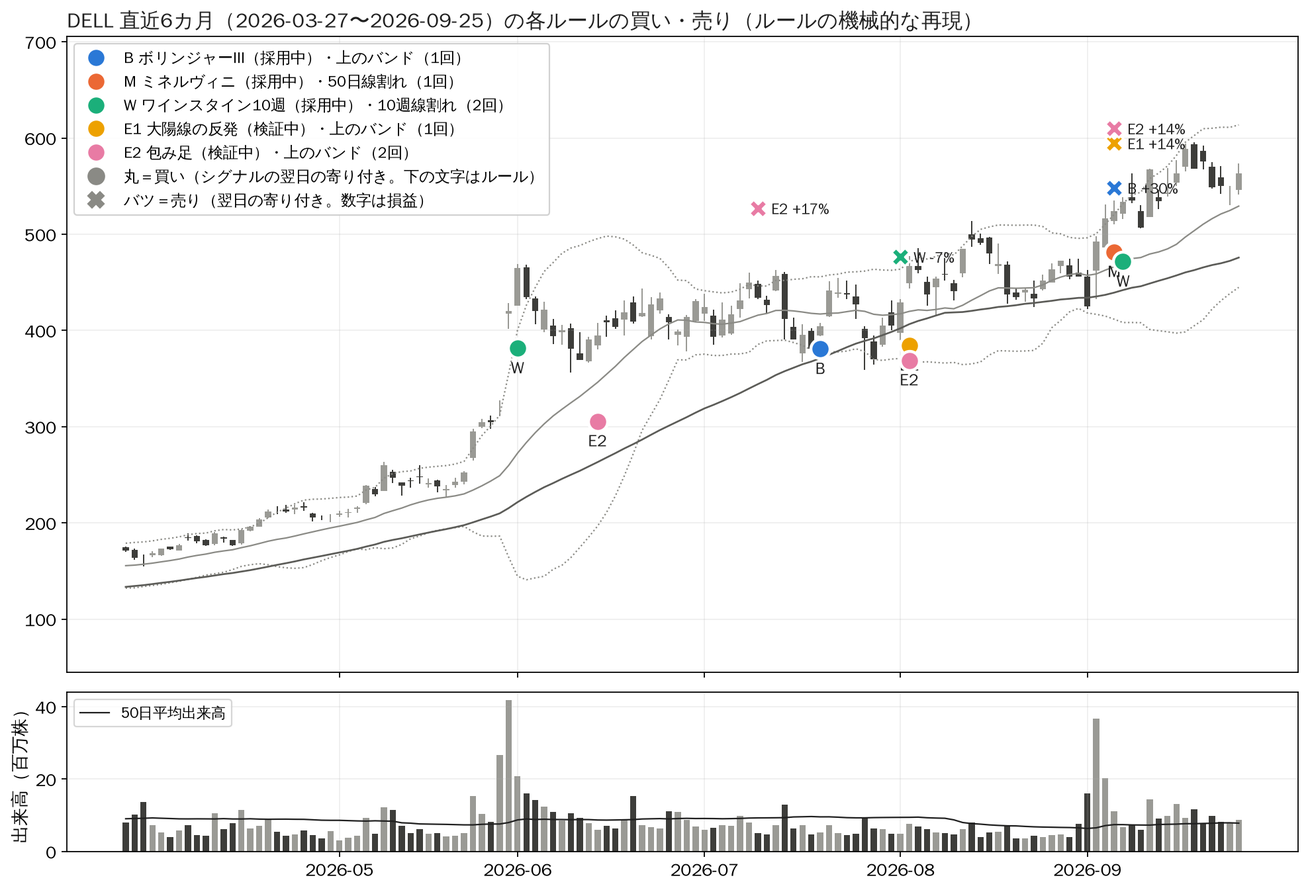
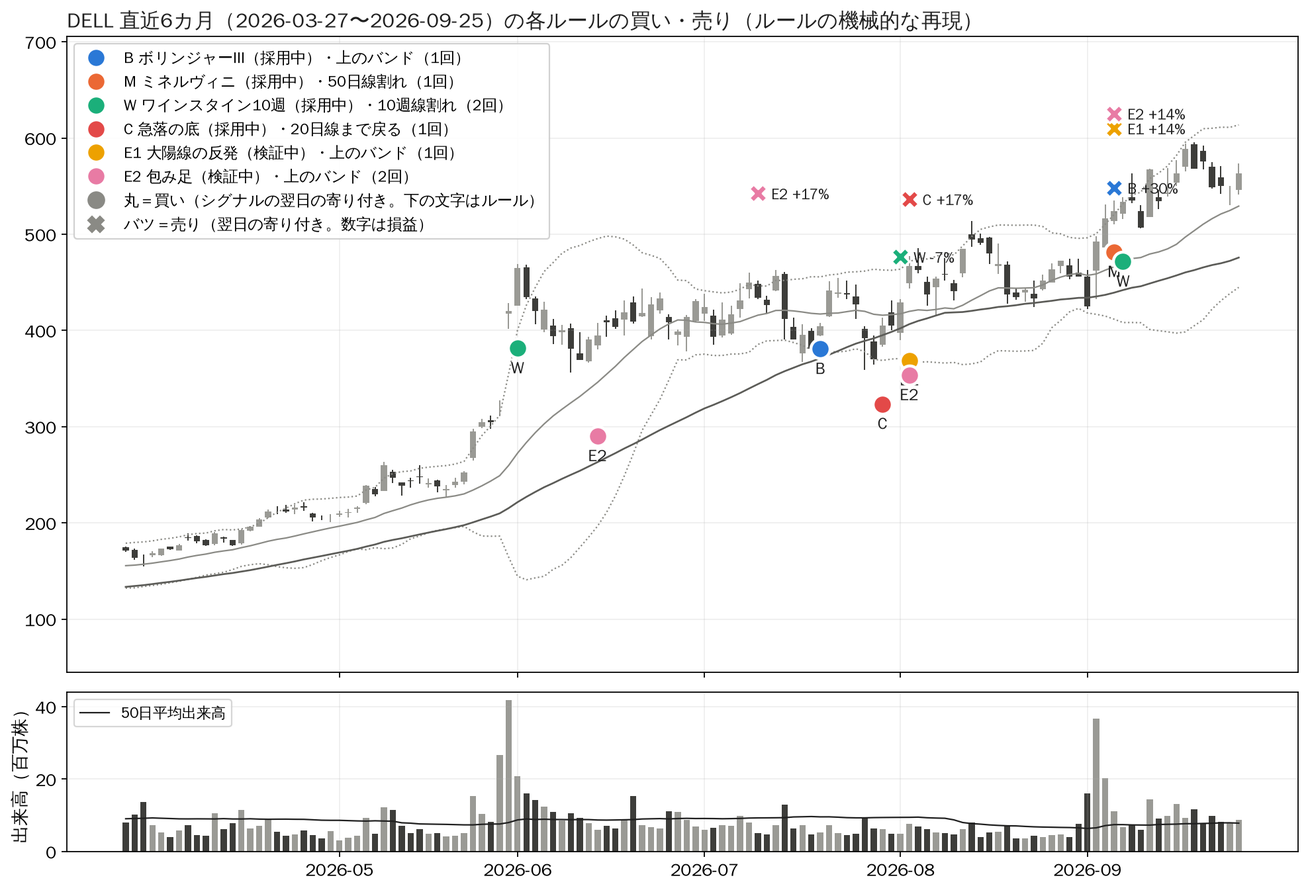
急落の底で買う逆張りのルールを採用し、毎朝のスキャン・個別分析・レビューに追加。質問には先に回答して確認するルールをCLAUDE.mdに追加
Claude-Session: https://claude.ai/code/session_01HNPPwbbnF8ioUCDAjfcbNF

diff --git a/tools/theme_scan.py b/tools/theme_scan.py
@@ -30,10 +30,12 @@ import backtest_theme as bth
 import backtest_trend as bt
 from backtest_regime import up as regime_up
 from backtest_minervini2 import add_pivot
-from backtest_lib import DEFAULT_CACHE, MEMBERS_URL, curl, market_regime, sma
+from backtest_lib import DEFAULT_CACHE, MEMBERS_URL, curl, market_regime, rsi_wilder, sma
+import backtest_crash as bcr
 
 RISK, STOP = 0.02, 0.15
 B_MAX = 5   # パターンB（予約注文の候補）は各ルールでこの件数まで
+CRASH_MAX = 7   # 急落の底の候補（市場全体の急落の日は20件を超えることがある）はRSの高い順にこの件数まで
 UA = "Mozilla/5.0 (Windows NT 10.0; Win64; x64) AppleWebKit/537.36 (KHTML, like Gecko) Chrome/120.0 Safari/537.36"
 
 
@@ -126,11 +128,12 @@ def main():
         p = os.path.join(DEFAULT_CACHE, "members.csv")
         members_csv = open(p).read() if os.path.exists(p) else "ticker,start_date,end_date\n"
     sp = [r["ticker"] for r in csv.DictReader(members_csv.splitlines()) if not r["end_date"]]
-    syms = sorted(set(sp) | set(wl) | {"SPY"})
+    syms = sorted(set(sp) | set(wl) | {"SPY", "^GSPC"})
     with ThreadPoolExecutor(8) as ex:
         got = dict(zip(syms, ex.map(fetch_daily, syms)))
     got = {s: cut(d, a.asof) for s, d in got.items() if d}
     spy = got.pop("SPY")
+    gspc = got.pop("^GSPC", None)
     day = spy["date"][-1]
     data = {s: got[s] for s in wl if s in got and got[s]["date"] and got[s]["date"][-1] == day and len(got[s]["c"]) > 260}
     missing = sorted(set(wl) - set(data))
@@ -143,6 +146,7 @@ def main():
         bt.prepare(d)
         bs.prepare(d)
         add_pivot(d)
+        d["rsi2"] = rsi_wilder(d["c"], 2)
         d["sym"] = s
         if len(pool) > 50:
             d["rs"][-1] = 99 * bisect.bisect_left(pool, rs_raw(d["c"])) / (len(pool) - 1)
@@ -183,6 +187,8 @@ def main():
     br = sum(1 for d in data.values() if d["ma50"][-1] and d["c"][-1] > d["ma50"][-1]) / len(data)
     warn = br < 0.4 and ma50[-1] is not None and c[-1] < ma50[-1]
     w("\n## 2. テーマ全体の状態と早めの警告\n")
+    mkt = market_regime(gspc).get(day, "判定不能") if gspc else "取得不可"
+    w(f"- 市場全体（S&P500指数）の30週線による局面: **{mkt}**（急落の底で買うルールは、過去の検証で下落相場で特に強く、横ばいの相場では負けていた）")
     w(f"- テーマ指数（監視銘柄の等金額平均）の30週線による局面: **{stage.get(day, '判定不可')}**（上昇＝線より上かつ上向き、下落＝線より下かつ下向き、それ以外＝横ばい。ワインスタインのステージの近似）")
     w(f"- テーマ指数と50日線: {'50日線より上' if ma50[-1] and c[-1] > ma50[-1] else '50日線より下'}（乖離 {pct(c[-1] / ma50[-1] - 1) if ma50[-1] else '取得不可'}）")
     w(f"- S&P500に対する相対的な強さ: {'50日平均より上（S&P500より強い）' if rma[-1] and ratio[-1] > rma[-1] else '50日平均より下（S&P500より弱い）'}")
@@ -247,7 +253,9 @@ def main():
                 continue
             i = len(d["c"]) - 1
             c = d["c"][i]
-            if "ボリンジャー" in h["rule"]:
+            if "急落" in h["rule"]:
+                ex = "成立（引けで20日線以上 → 翌日の寄り付きで手じまい）" if d["bb_mid"][i] and c >= d["bb_mid"][i] else f"未成立（20日線 {d['bb_mid'][i]:.2f}）"
+            elif "ボリンジャー" in h["rule"]:
                 ex = "成立（引けで上部バンド以上 → 翌日の寄り付きで手じまい）" if d["pctb"][i] is not None and d["pctb"][i] >= 1 else f"未成立（上部バンド {d['bb_up'][i]:.2f}）"
             elif "ミネルヴィニ" in h["rule"]:
                 ex = "成立（引けで50日線割れ → 翌日の寄り付きで手じまい）" if c < d["ma50"][i] else f"未成立（50日線 {d['ma50'][i]:.2f}）"
@@ -325,6 +333,10 @@ def main():
                 cands.append({**base, "pat": "B", "kind": "予約: ミネルヴィニ（ピボットの手前）",
                               "why": f"ピボット（ベースの高値、{d['date'][kh]}）{piv:.2f}まで{(piv / d['c'][i] - 1) * 100:.1f}%、ベース{i - kh}日・調整幅{depth * 100:.0f}%",
                               "order": f"逆指値買い {piv:.2f}（指値の上限 {piv * 1.03:.2f}＝ピボット+3%）。本は上抜けの日の出来高が50日平均の2倍以上（{2 * d['vol50'][i] / 1e4:,.0f}万株）を求める。損切り: 買値の15%下。手じまい: 引けで50日線割れ"})
+        if bcr.C3(i, d) is not None:
+            cands.append({**base, "pat": "A", "kind": "逆張り: 急落の底（担当: ボリンジャー）",
+                          "why": f"直前5日の最高値（終値）から{bcr.drop(i, d) * 100:.1f}%下落（−15%以上）、RSI(2)={d['rsi2'][i]:.1f}（≦5）、急落の前は50日線＞200日線。市場全体の局面: {mkt}",
+                          "order": f"翌日の寄り付きで買い。損切り: 買値の15%下。手じまい: 引けで20日線（今日 {d['bb_mid'][i]:.2f}）以上に戻った翌日の寄り付き"})
         if dt.date.fromisoformat(day).weekday() == 4:
             if bt.E_weinstein(10, ma="10")(i, d) is not None:
                 cands.append({**base, "pat": "A", "kind": "順張り: ワインスタイン（10週の高値上抜け）",
@@ -343,10 +355,10 @@ def main():
         # Bはルールごとに RSの高い順で5件まで（NotebookLMの1日の上限とニュース調査の時間のため）
         nb, kept = {}, []
         for x in cands:
-            if x["pat"] == "B":
+            if x["pat"] == "B" or "急落" in x["kind"]:
                 k = x["kind"].split("（")[0]
                 nb[k] = nb.get(k, 0) + 1
-                if nb[k] > B_MAX:
+                if nb[k] > (CRASH_MAX if "急落" in x["kind"] else B_MAX):
                     continue
             kept.append(x)
         dropped = len(cands) - len(kept)
@@ -364,7 +376,7 @@ def main():
             rs_ = "取得不可" if x["rs"] is None else f"{x['rs']:.0f}"
             w(f"| {x['sym']} | {x['group']} | {x['pat']} | {x['kind']} | {x['close']:.2f} | {pct(x['chg'])} | {rs_} | {x['regime']} | {x['why']} | {eds[x['sym']]} | {x['order']} |")
         if dropped:
-            w(f"\n- パターンBは各ルールでRSの高い順に{B_MAX}件までとし、{dropped}件を省いた。")
+            w(f"\n- パターンBは各ルールでRSの高い順に{B_MAX}件まで、急落の底は{CRASH_MAX}件（同時保有の上限）までとし、{dropped}件を省いた。")
         w("\n- RS≧80の押し目（ボリンジャーIII）は、バックテストで成績がより安定していた（PF3.27、最大下落20%）。")
     text = "\n".join(L) + "\n"
     today_pat = {}

diff --git a/tools/theme_single.py b/tools/theme_single.py
@@ -22,7 +22,8 @@ import backtest_swing as bs
 import backtest_trend as bt
 from backtest_regime import up
 from backtest_minervini2 import add_pivot
-from backtest_lib import MEMBERS_URL, curl
+import backtest_crash as bcr
+from backtest_lib import MEMBERS_URL, curl, rsi_wilder
 from theme_scan import cut, earnings_date, fetch_daily, pct
 
 STOP = 0.15
@@ -46,11 +47,17 @@ def load_pool():
 def who(rules):
     """rules.md から、送る著者（合図 A・B が出ているルールの著者＋保有中のルールの著者）を返す"""
     authors = ("ボリンジャー", "ミネルヴィニ", "ワインスタイン")
-    m = re.search(r"ボリンジャーIII: (\S+)／ミネルヴィニ: (\S+)／ワインスタイン10週: (\S+?)（", rules)
-    out = [a for a, p in zip(authors, m.groups()) if p in ("A", "B")] if m else list(authors)
-    h = re.search(r"## 4. 保有中の確認\n\n- ルール: ([^／]+)", rules)
+    m = re.search(r"ボリンジャーIII: (\S+?)／ミネルヴィニ: (\S+?)／ワインスタイン10週: (\S+?)(?:／急落の底: (\S+?))?（", rules)
+    if m:
+        pats = dict(zip(("ボリンジャー", "ミネルヴィニ", "ワインスタイン", "急落"), m.groups()))
+        out = [a for a in authors if pats[a] in ("A", "B")]
+        if pats["急落"] == "A" and "ボリンジャー" not in out:     # 急落の底はボリンジャーが担当
+            out.insert(0, "ボリンジャー")
+    else:
+        out = list(authors)
+    h = re.search(r"## \d\. 保有中の確認\n\n- ルール: ([^／]+)", rules)
     if h:
-        out += [a for a in authors if a in h.group(1) and a not in out]
+        out += [a for a in authors if (a in h.group(1) or (a == "ボリンジャー" and "急落" in h.group(1))) and a not in out]
     return out
 
 
@@ -166,14 +173,30 @@ def report(sym, d, pool_series, asof=None, hold=None, earn=None):
     if pat_w == "B":
         w(f"- 予約注文の目安（B）: 逆指値買い {h10:.2f}（本のルールは週足の終値で判定するので近似。上抜けの週の出来高は直前4週の平均の2倍以上）")
     w("")
-    w(f"## まとめ（スクリプトのパターン判定）\n\n- ボリンジャーIII: {pat_b}／ミネルヴィニ: {pat_m}／ワインスタイン10週: {pat_w}（A=条件成立、B=成立が目前で予約注文の候補）\n")
+    # 急落の底（逆張り、担当: ボリンジャー）。2026-09-27 採用
+    d["rsi2"] = rsi_wilder(d["c"], 2)
+    crash = bcr.C3(i, d) is not None
+    dr, r2 = bcr.drop(i, d), d["rsi2"][i]
+    pat_c = "A" if crash else "該当なし"
+    w("## 4. 逆張り: 急落の底（担当: ボリンジャー）\n")
+    w(f"- 条件: 急落の前（6日前）に50日線＞200日線、直前5日の最高値（終値）から15%以上下落、RSI(2)≦5 → **{mark(crash)}**"
+      f"（6日前の50日線／200日線 {d['ma50'][i - 6]:.2f}／{d['ma200'][i - 6]:.2f}、下落率 {dr * 100:+.1f}%、RSI(2) {r2:.1f}）")
+    w(f"- 直前5日の最高値（終値）{max(d['c'][i - 5:i]):.2f} の15%下は {max(d['c'][i - 5:i]) * 0.85:.2f}")
+    w(f"- スクリプトのパターン判定: **{pat_c}**（A=条件成立。終値で判定するルールのため予約注文（B）はない）")
+    if crash:
+        w(f"- 注文の目安（A）: 翌日の寄り付きで買い、損切りは買値の15%下、引けで20日線（今日 {d['bb_mid'][i]:.2f}）以上に戻った翌日の寄り付きで手じまい。"
+          "過去の検証では、市場全体（S&P500）が下落相場のときに特に強く、横ばいの相場では負けていた")
+    w("")
+    w(f"## まとめ（スクリプトのパターン判定）\n\n- ボリンジャーIII: {pat_b}／ミネルヴィニ: {pat_m}／ワインスタイン10週: {pat_w}／急落の底: {pat_c}（A=条件成立、B=成立が目前で予約注文の候補）\n")
 
     if hold:
         px, bd, rule = float(hold[0]), hold[1], hold[2]
         stop = px * (1 - STOP)
-        w("## 4. 保有中の確認\n")
+        w("## 5. 保有中の確認\n")
         w(f"- ルール: {rule}／買った日: {bd}／買値: {px:.2f}／損益: {pct(c / px - 1)}／損切り価格（買値の15%下）: {stop:.2f}" + ("（**下回っている**）" if c <= stop else ""))
-        if "ボリンジャー" in rule:
+        if "急落" in rule:
+            w(f"- 手じまい条件（引けで20日線以上）: {mark(c >= d['bb_mid'][i])}（20日線 {d['bb_mid'][i]:.2f}）")
+        elif "ボリンジャー" in rule:
             w(f"- 手じまい条件（引けで上部バンド以上）: {mark(pb >= 1)}（上部バンド {d['bb_up'][i]:.2f}）")
         elif "ミネルヴィニ" in rule:
             w(f"- 手じまい条件（引けで50日線割れ）: {mark(c < m50)}（50日線 {m50:.2f}）")

diff --git a/tools/replay_moves.py b/tools/replay_moves.py
@@ -44,12 +44,9 @@ SKIP = "送信せず"
 
 
 def targets(rules):
-    """rules.md のまとめ行から、合図（A=条件成立、B=成立が目前）が出ているルールの著者だけを返す。
-    合図がないルールの著者は、方式Bでは必ず【様子見】になる（SNDKの再現で66回中すべて）ので、質問しない"""
-    m = re.search(r"ボリンジャーIII: (\S+)／ミネルヴィニ: (\S+)／ワインスタイン10週: (\S+?)（", rules)
-    if not m:
-        return list(NB)
-    return [RULE_AUTHOR[r] for r, p in zip(RULE_AUTHOR, m.groups()) if p in ("A", "B")]
+    """送る著者（合図 A・B が出ているルールの著者）。合図がない著者は方式Bでは必ず【様子見】になる（SNDKの再現で66回中すべて）ので質問しない"""
+    from theme_single import who
+    return who(rules)
 
 
 def answered(f):
@@ -195,7 +192,7 @@ def write_report(sym, d, ev, plan, outdir):
     L = [f"# {sym}: 大きく動いた日の前後で、新ツールの著者はどう判定したか（過去の日付での再現）\n",
          "- 各日の引け時点で見えていたデータ・チャート・ニュース（銘柄メモのその日以前の項目）・過去の決算日だけで判定させた。送信は1回ずつ独立（--webなし）。",
          "- 「その後」は、翌営業日に注文した場合。【買い】＝翌日の寄り付き、【買い（予約）】＝翌日の高値（逆指値）・安値（指値）が届いたときだけ約定。【様子見】は参考として翌日の寄り付きで買っていた場合の値動き。",
-         "- スクリプトのパターン: ボリンジャーIII／ミネルヴィニ／ワインスタイン10週の順（A=条件成立、B=成立が目前、−=該当なし）。",
+         "- スクリプトのパターン: ボリンジャーIII／ミネルヴィニ／ワインスタイン10週／急落の底の順（A=条件成立、B=成立が目前、−=該当なし）。",
          "- この表は著者（NotebookLM）の回答を機械的に読み取ったもので、Claudeによる売買判断ではない。全文は各日のフォルダの <著者>.txt。\n"]
     stats = {k: [] for k in NB}
     for kind, r, i in ev:
@@ -209,8 +206,8 @@ def write_report(sym, d, ev, plan, outdir):
             day = d["date"][j]
             dd = os.path.join(outdir, day)
             rules = open(os.path.join(dd, "rules.md"), encoding="utf-8").read() if os.path.exists(os.path.join(dd, "rules.md")) else ""
-            m = re.search(r"ボリンジャーIII: (\S+)／ミネルヴィニ: (\S+)／ワインスタイン10週: (\S+?)（", rules)
-            sp = "／".join(x.replace("該当なし", "−") for x in m.groups()) if m else "?"
+            m = re.search(r"ボリンジャーIII: (\S+?)／ミネルヴィニ: (\S+?)／ワインスタイン10週: (\S+?)(?:／急落の底: (\S+?))?（", rules)
+            sp = "／".join((x or "−").replace("該当なし", "−") for x in m.groups()) if m else "?"
             cells = []
             for au in NB:
                 f = os.path.join(dd, f"{au}.txt")

diff --git a/tools/entry_chart.py b/tools/entry_chart.py
@@ -9,6 +9,7 @@
   B  ボリンジャー メソッドIII（%b<0.05かつ21日II%>0）→ 引けで上のバンド以上で手じまい           …採用中
   M  ミネルヴィニ（トレンドテンプレート＋ベース（最高値から3週以上・調整幅35%以内）の高値を出来高2倍で上抜け）→ 50日線割れで手じまい …採用中
   W  ワインスタイン10週（週足で直前10週の高値を出来高2倍で上抜け、10週線が上向き）→ 週足の終値が10週線割れ …採用中
+  C  急落の底（急落の前に50日線>200日線、5日で−15%以上、RSI(2)≦5）→ 引けで20日線以上で手じまい …採用中（2026-09-27）
   E1 大陽線の反発（強い銘柄・押し・出来高の減少の後の大陽線）→ 上のバンドで手じまい           …検証中（採用していない）
   E2 包み足（強い銘柄・押しの後）→ 上のバンドで手じまい                                         …検証中（採用していない）
 RSランキングはS&P500の構成銘柄の中での百分位（キャッシュの株価で計算）。
@@ -21,6 +22,8 @@ import sys
 
 sys.path.insert(0, os.path.dirname(os.path.abspath(__file__)))
 import backtest_candle as bcd
+import backtest_connors as bc
+import backtest_crash as bcr
 import backtest_minervini2 as bm2
 import backtest_swing as bs
 import backtest_theme as bth
@@ -33,6 +36,7 @@ RULES = [  # 記号, 名前, 仕掛け, 手じまい, 手じまいの名前, 色
     ("B", "ボリンジャーIII（採用中）", lambda i, s: bs.O_method3(i, s), BAND, "上のバンド", "#2a78d6"),
     ("M", "ミネルヴィニ（採用中）", bm2.E_base(2.0), bt.X_BELOW50, "50日線割れ", "#eb6834"),
     ("W", "ワインスタイン10週（採用中）", bt.E_weinstein(10, ma="10"), bt.X_weekly_below("10"), "10週線割れ", "#1baf7a"),
+    ("C", "急落の底（採用中）", lambda i, s: bcr.C3(i, s), lambda j, s, k, px: s["bb_mid"][j] is not None and s["c"][j] >= s["bb_mid"][j], "20日線まで戻る", "#e34948"),
     ("E1", "大陽線の反発（検証中）", bcd.E1, BAND, "上のバンド", "#eda100"),
     ("E2", "包み足（検証中）", bcd.E2, BAND, "上のバンド", "#e87ba4"),
 ]
@@ -83,6 +87,7 @@ def main():
     bt.prepare(s)
     bs.prepare(s)
     bm2.add_pivot(s)
+    bc.prepare(s)
     sp = [r["ticker"] for r in csv.DictReader(open(os.path.join(a.cache, "members.csv"))) if not r["end_date"]]
     bth.rs_ranks(a.cache, sorted(set(sp) | {sym}), {sym: s})
     last = dt.date.fromisoformat(s["date"][-1])

diff --git a/tools/theme_review.py b/tools/theme_review.py
@@ -98,6 +98,8 @@ def cmd_record(a):
 
 def rule_exit(rule, s, j):
     """その日の引けでルールの手じまい条件が成立したか"""
+    if "急落" in rule:
+        return s["bb_mid"][j] is not None and s["c"][j] >= s["bb_mid"][j]
     if "ボリンジャー" in rule:
         return s["pctb"][j] is not None and s["pctb"][j] >= 1.0
     if "ミネルヴィニ" in rule:
@@ -173,7 +175,7 @@ def cmd_review(a):
                     rows.append({**c, "date": r["trade_date"], "status": "約定の記録なし（翌日以降の条件で改めてエントリーを探す）"})
                     continue
                 k = s["date"].index(rec[0]["date"]) if rec[0]["date"] in s["date"] else i + 1
-                rule = "ボリンジャー" if "ボリンジャー" in c["kind"] else "ミネルヴィニ" if "ミネルヴィニ" in c["kind"] else "ワインスタイン"
+                rule = "急落" if "急落" in c["kind"] else "ボリンジャー" if "ボリンジャー" in c["kind"] else "ミネルヴィニ" if "ミネルヴィニ" in c["kind"] else "ワインスタイン"
                 px = rec[0]["price"]
                 od, op, why = follow(rule, s, k, px, px * (1 - STOP))
                 rows.append({**c, "date": r["trade_date"], "entry": px, "exit_date": od, "exit": op, "status": why + "（実際の約定）",
@@ -182,7 +184,7 @@ def cmd_review(a):
             if c.get("limit") and px > c["limit"]:
                 rows.append({**c, "date": r["trade_date"], "status": f"買値{px:.2f}が上限{c['limit']:.2f}を超えたため買わない"})
                 continue
-            rule = "ボリンジャー" if "ボリンジャー" in c["kind"] else "ミネルヴィニ" if "ミネルヴィニ" in c["kind"] else "ワインスタイン"
+            rule = "急落" if "急落" in c["kind"] else "ボリンジャー" if "ボリンジャー" in c["kind"] else "ミネルヴィニ" if "ミネルヴィニ" in c["kind"] else "ワインスタイン"
             od, op, why = follow(rule, s, i + 1, px, px * (1 - STOP))
             rows.append({**c, "date": r["trade_date"], "entry": px, "exit_date": od, "exit": op, "status": why,
                          "ret": op / px - 1 - 2 * COST})

diff --git a/tools/build_theme_prompt.py b/tools/build_theme_prompt.py
@@ -64,7 +64,7 @@ def main():
             head = [c.strip() for c in line.strip("|").split("|")]
         elif head and re.match(r"^\| [A-Z]", line):
             row = dict(zip(head, [c.strip() for c in line.strip("|").split("|")]))
-            if kind in row.get("ルール", ""):
+            if kind in row.get("ルール", "") or (kind == "ボリンジャー" and "急落" in row.get("ルール", "")):   # 急落の底はボリンジャーが担当
                 rows.setdefault(row["銘柄"], []).append({"保有": row})
     head = None
     for line in section(text, "## 6.").splitlines():

diff --git a/新分析ツール/引き継ぎ.md b/新分析ツール/引き継ぎ.md
@@ -285,3 +285,11 @@ branch: claude/pensive-bell-rubzj1
   - 監視銘柄（後知恵あり）: C3「5日で−15%＋RSI(2)≦5」で20日線まで戻ったら手じまい 年率36%・PF2.75、SNDKは 7/29 1,119.33 → 8/18 +49.9%（上のバンド）、DELLは 7/30 384.89 → 9/4 +33.5%。採用中に足すと 57% → 60%。
   - 後知恵なしのS&P500（2015〜）: 市場全体（S&P500の30週線）の局面で大きく分かれる。下落相場では C1「5日で−20%」 130件 平均+19.7% PF18.5、C3 121件 平均+10.1% PF4.9。横ばいの相場ではマイナス（C1 PF0.52、C3 PF0.65）。上昇相場は小さなプラス（PF1.3〜1.5）。
   - まだ採用していない（ユーザーの判断待ち）。局面で使い分ける案は、同じデータを見て決めた条件なので、過大評価の可能性がある。
+
+## 27. 急落の底のルールを採用／質問への答え方（2026-09-27）
+
+- ユーザーの指示「急落の底で買うルールを採用してください」→ C3 を採用: 急落の前（6日前）に50日線＞200日線、直前5日の最高値（終値）から15%以上下落、RSI(2)≦5 → 翌日の寄り付きで買い、引けで20日線以上に戻った翌日の寄り付きで手じまい、損切り15%。担当の著者はボリンジャー（kind に「担当: ボリンジャー」、保有中のルール名は「急落の底」）。1日の候補はRSの高い順に7件まで（7/29のような市場全体の急落の日は20件になった）。
+  - 使う局面は制限していない（横ばいの相場では負けていたという結果は、同じデータを見て決めた条件のため）。代わりに scan の節2と候補の「当てはまった条件」に、市場全体（S&P500指数 ^GSPC の30週線）の局面を表示する。
+  - 変更: theme_scan（候補・保有の手じまい・市場全体の局面）、theme_single（節4、まとめ行に「急落の底」、保有中は節5）、who()（急落の底のAはボリンジャーへ）、build_theme_prompt（保有中の「急落」はボリンジャーへ）、theme_review（手じまい条件）、entry_chart（C）、replay_moves。手順書T3の表に行を追加。
+  - 再現チャート: SNDK 7/29 1,119.33 → 8/13 +19.7%、DELL 7/30 384.89 → 8/4 +16.7%。
+- ユーザーの指示: 質問したときは実行せず、まず回答し「この回答に沿って〜を行いますか？」と確認、了承後に実行 → CLAUDE.md に追加。

diff --git a/新分析ツール/テーマ監視_手順書.md b/新分析ツール/テーマ監視_手順書.md
@@ -53,6 +53,7 @@ tools/theme_scan.py "$D/scan.md"
 |---|---|---|---|
 | 逆張り（ボリンジャー メソッドIII） | %b < 0.05 かつ 21日II% > 0 | 翌日の寄り付きで買い、損切り15%、引けで上部バンド以上になった翌日の寄り付きで手じまい | ボリンジャー ルール表 p.1589-1590 |
 | 順張り（ミネルヴィニ） | トレンドテンプレート1〜8、ベース（直前65週の最高値の日から3週以上、その高値からの調整幅35%以内）の高値を出来高2倍で上抜け（2026-09-27に本のとおりの定義へ修正。以前は「直前50日の高値−安値≦35%」で、上昇中の銘柄をほぼ除外していた） | 翌日の寄り付きで買い（寄り付きがピボット+3%を超えたら見送り）、損切り15%、引けで50日線を割った翌日の寄り付きで手じまい | ミネルヴィニ ルール表 p.44, p.98, p.118-122 |
+| 逆張り（急落の底、担当: ボリンジャー） | 急落の前（6日前）に50日線＞200日線、直前5日の最高値（終値）から15%以上下落、RSI(2)≦5（2026-09-27 採用。数値はClaudeが置いたもので本のルール表の値ではない） | 翌日の寄り付きで買い、損切り15%、引けで20日線以上に戻った翌日の寄り付きで手じまい。1日の候補はRSの高い順に7件まで | `バックテスト結果/急落の底で買う逆張り.md`（後知恵なしのS&P500では、市場全体が下落相場のとき平均+10.1%、横ばいの相場では負け） |
 | 順張り（ワインスタイン 10週） | 週足の終値が直前10週の高値を出来高2倍で上抜け、10週線が上向き（週の最終取引日だけ判定） | 翌日の寄り付きで買い、損切り15%、週足の終値が10週線を割ったら手じまい | ワインスタイン ルール表 p.12-13, p.67 |
 
 - 採用しなかったもの（バックテストの結果）: ラシュキの日足パターン（NR7はマイナス、聖杯・アンチは弱い）、ボリンジャーのメソッドI、コナーズのダブル7（売買コストを厳しめに見ると大きく悪化）、同じグループの保有の上限（改善しなかった）、警告中に新しい買いを止めること（押し目買いの成績が大きく下がった）。

diff --git a/CLAUDE.md b/CLAUDE.md
@@ -33,6 +33,12 @@
 - 新分析ツールでも、個別銘柄の判定は著者のノートブックが行い、Claudeは行わない。著者の回答は要約・改変せず全文を表示する。買いの条件はユーザーが採用した売買ルール（手順書の手順T3）が決め、著者は注文を止める理由だけを判定する（ユーザー決定の方式B）。
 - 毎朝のテーマ監視（平日7:15）と週次レビュー（土曜8:05）はRoutineが手順書の2-2・2-3で実行する。
 
+## ユーザーから質問を受けたとき（ユーザーの指示 2026-09-27）
+
+- ユーザーの発言が**質問**（「〜は必要ではないですか？」「なぜ〜なのですか？」「〜ではなかったですか？」など）のときは、**作業を実行せず、まず質問に答える**。そのうえで「この回答に沿って〇〇を行いますか？」と、行う作業の内容を具体的に示して確認する。**ユーザーが了承してから実行する。**
+- 明確な指示（「〜してください」「〜を採用して」）は、これまでどおり実行してよい。1つのメッセージに指示と質問が混ざっている場合は、指示だけを実行し、質問には回答と確認の問いを返す。
+- この確認は、NotebookLMへの質問回数の確認（下の節）とは別に行う。
+
 ## NotebookLMへの質問回数について
 
 - **1つの作業でNotebookLMへの質問が10回を超える場合は、送る前に回数（と対象の日付・著者）をユーザーに示して確認を取ること**（ユーザーの指示 2026-09-27）。了承なしに送ってはならない。例外は、ユーザーが設定した毎朝・毎週のRoutine（テーマ監視・週次レビュー・相場天気予報）。

diff --git a/新分析ツール/バックテスト結果/SNDK_直近6カ月/SNDK_entries.md b/新分析ツール/バックテスト結果/SNDK_直近6カ月/SNDK_entries.md
@@ -7,11 +7,12 @@
 | B ボリンジャーIII（採用中） | この期間はシグナルなし | | | | | | |
 | M ミネルヴィニ（採用中） | この期間はシグナルなし | | | | | | |
 | W ワインスタイン10週（採用中） | この期間はシグナルなし | | | | | | |
+| C 急落の底（採用中） | 2026-07-28 | 2026-07-29 | 1,119.33 | 2026-08-13 | 1,339.83 | 手じまい条件 | +19.7% |
 | E1 大陽線の反発（検証中） | 2026-05-19 | 2026-05-20 | 1,437.98 | 2026-06-02 | 1,750.06 | 手じまい条件 | +21.7% |
 | E1 大陽線の反発（検証中） | 2026-08-31 | 2026-09-01 | 1,526.01 | 2026-09-21 | 1,826.00 | 手じまい条件 | +19.7% |
 | E2 包み足（検証中） | 2026-05-15 | 2026-05-18 | 1,431.67 | 2026-06-02 | 1,750.06 | 手じまい条件 | +22.2% |
 | E2 包み足（検証中） | 2026-07-08 | 2026-07-09 | 1,835.61 | 2026-07-17 | 1,365.20 | 損切り | -25.6% |
 | E2 包み足（検証中） | 2026-08-13 | 2026-08-14 | 1,646.93 | 2026-08-18 | 1,677.54 | 手じまい条件 | +1.9% |
 
-- 売買の回数（すべてのルールの合計）: 5回（うち保有中 0）
+- 売買の回数（すべてのルールの合計）: 6回（うち保有中 0）
 - 同じ期間の買い持ち（2026-03-27の寄り付き → 2026-09-25の終値）: +196.4%

diff --git a/新分析ツール/バックテスト結果/DELL_直近6カ月/DELL_entries.md b/新分析ツール/バックテスト結果/DELL_直近6カ月/DELL_entries.md
@@ -8,9 +8,10 @@
 | M ミネルヴィニ（採用中） | 2026-09-03 | 2026-09-04 | 513.78 | 保有中 | （2026-09-25の終値 562.89） | 保有中 | +9.6%（含み） |
 | W ワインスタイン10週（採用中） | 2026-05-29 | 2026-06-01 | 425.45 | 2026-08-03 | 397.68 | 手じまい条件 | -6.5% |
 | W ワインスタイン10週（採用中） | 2026-09-04 | 2026-09-08 | 521.15 | 保有中 | （2026-09-25の終値 562.89） | 保有中 | +8.0%（含み） |
+| C 急落の底（採用中） | 2026-07-29 | 2026-07-30 | 384.89 | 2026-08-04 | 449.28 | 手じまい条件 | +16.7% |
 | E1 大陽線の反発（検証中） | 2026-08-03 | 2026-08-04 | 449.28 | 2026-09-04 | 513.78 | 手じまい条件 | +14.4% |
 | E2 包み足（検証中） | 2026-06-11 | 2026-06-12 | 384.36 | 2026-07-10 | 448.37 | 手じまい条件 | +16.7% |
 | E2 包み足（検証中） | 2026-08-03 | 2026-08-04 | 449.28 | 2026-09-04 | 513.78 | 手じまい条件 | +14.4% |
 
-- 売買の回数（すべてのルールの合計）: 7回（うち保有中 2）
+- 売買の回数（すべてのルールの合計）: 8回（うち保有中 2）
 - 同じ期間の買い持ち（2026-03-27の寄り付き → 2026-09-25の終値）: +222.9%
